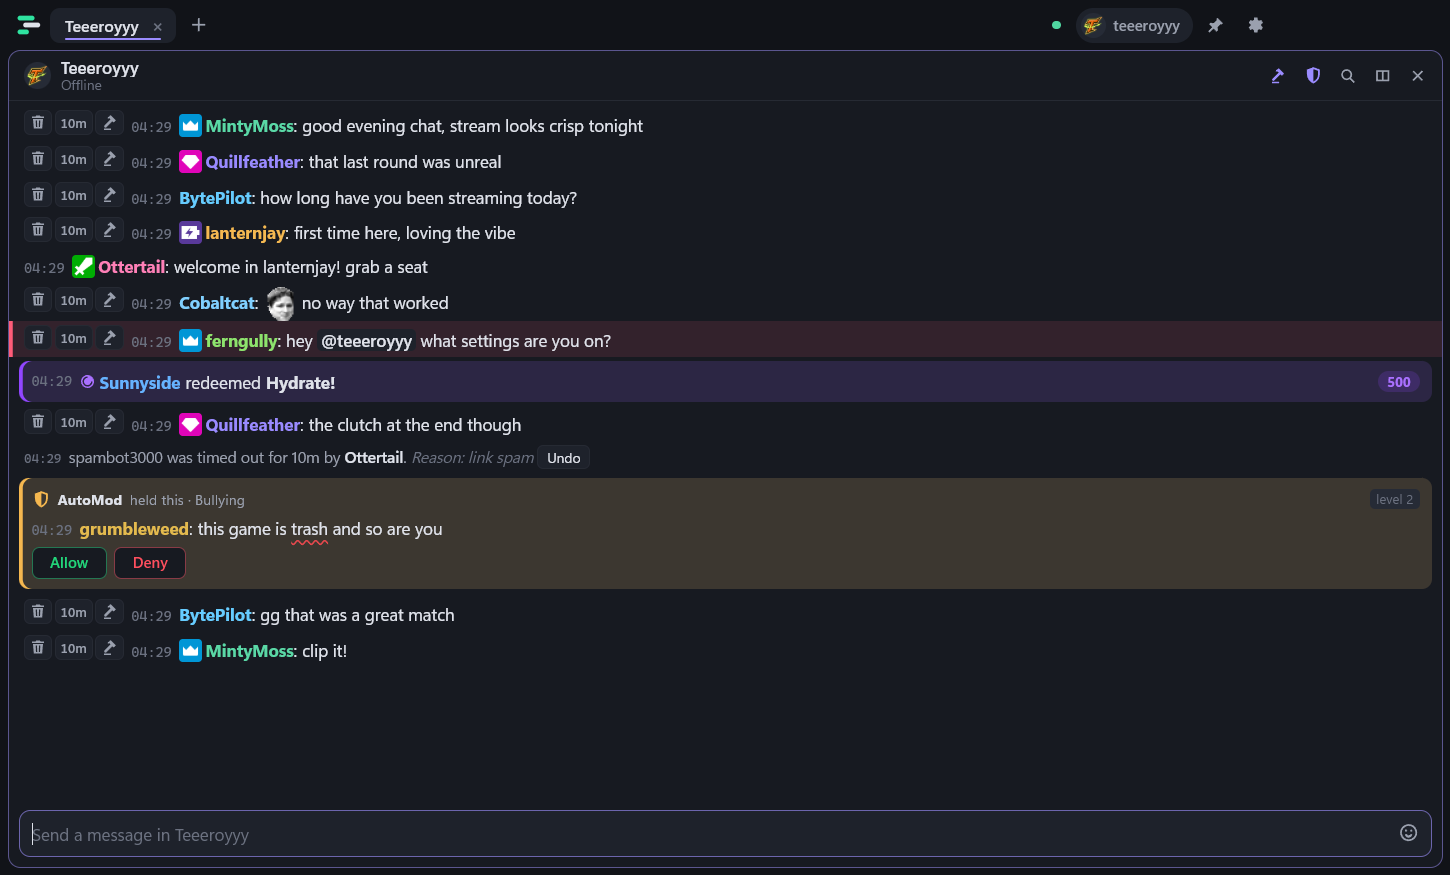
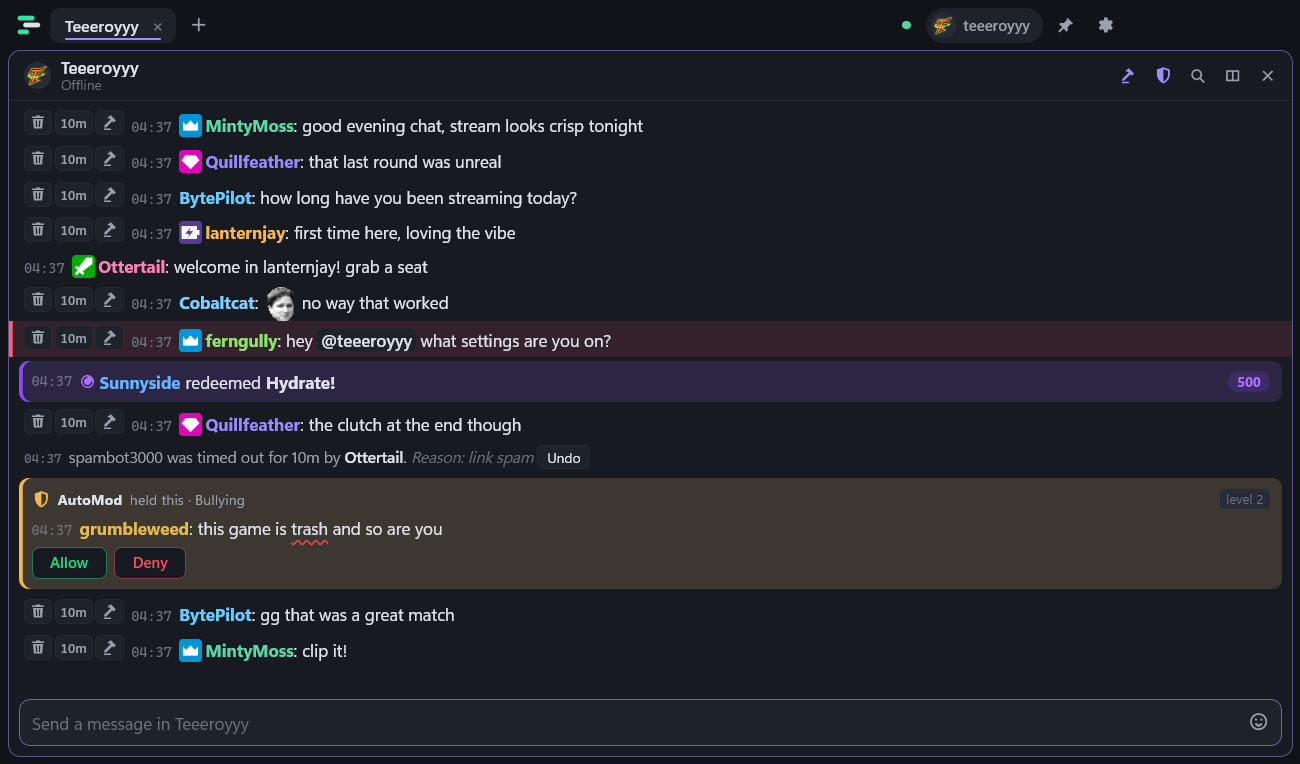
Update website

diff --git a/docs/style.css b/docs/style.css
@@ -33,7 +33,7 @@ body {
   -webkit-font-smoothing: antialiased;
   overflow-x: hidden;
 }
-img { max-width: 100%; display: block; }
+img { max-width: 100%; height: auto; display: block; }
 a { color: var(--mint); text-decoration: none; }
 a:hover { color: var(--mint-2); }
 h1, h2, h3 { font-family: var(--display); line-height: 1.05; margin: 0; letter-spacing: -.02em; }
@@ -57,14 +57,14 @@ main > section { max-width: var(--max); margin: 0 auto; padding: 0 24px; }
 .nav nav a.nav-cta:hover { background: var(--mint-2); }
 
 /* hero */
-.hero { display: grid; grid-template-columns: minmax(0, 5fr) minmax(0, 7fr); gap: 56px; align-items: center; padding-top: 72px !important; padding-bottom: 96px !important; }
+.hero { display: grid; grid-template-columns: 1fr; gap: 64px; justify-items: center; text-align: center; padding-top: 72px !important; padding-bottom: 96px !important; }
 .eyebrow { display: inline-flex; align-items: center; gap: 9px; margin: 0 0 22px; padding: 6px 13px 6px 11px; border: 1px solid var(--line); border-radius: 999px; color: var(--text-2); font-size: 13.5px; background: rgba(255, 255, 255, .02); }
 .pulse { width: 8px; height: 8px; border-radius: 50%; background: var(--mint); box-shadow: 0 0 0 0 rgba(79, 214, 160, .6); animation: pulse 2.2s infinite; }
 @keyframes pulse { 70% { box-shadow: 0 0 0 9px rgba(79, 214, 160, 0); } 100% { box-shadow: 0 0 0 0 rgba(79, 214, 160, 0); } }
 h1 { font-size: clamp(46px, 6.4vw, 84px); font-weight: 800; }
 h1 em { font-style: normal; background: linear-gradient(95deg, var(--mint) 10%, var(--mint-2) 60%, #ffffff); -webkit-background-clip: text; background-clip: text; color: transparent; }
-.lede { font-size: 18.5px; color: var(--text-2); max-width: 470px; margin: 24px 0 34px; }
-.hero-actions { display: flex; align-items: center; gap: 14px; flex-wrap: wrap; }
+.lede { font-size: 18.5px; color: var(--text-2); max-width: 560px; margin: 24px auto 34px; }
+.hero-actions { display: flex; align-items: center; justify-content: center; gap: 14px; flex-wrap: wrap; }
 .version-pill { font: 13px var(--mono); color: var(--text-3); }
 
 .btn { display: inline-flex; align-items: center; gap: 10px; padding: 13px 22px; border-radius: 12px; font-weight: 600; font-size: 15.5px; transition: transform .15s, box-shadow .15s, background .15s; }
@@ -73,10 +73,9 @@ h1 em { font-style: normal; background: linear-gradient(95deg, var(--mint) 10%, 
 .btn.primary:hover { color: #06251a; transform: translateY(-1px); box-shadow: 0 14px 36px -8px rgba(79, 214, 160, .7), inset 0 1px 0 rgba(255, 255, 255, .35); }
 .btn.big { padding: 15px 26px; font-size: 16.5px; }
 
-.hero-shot { margin: 0; position: relative; }
-.hero-shot::before { content: ""; position: absolute; inset: 8% -4% -6% 6%; background: radial-gradient(closest-side, rgba(79, 214, 160, .28), transparent); filter: blur(30px); z-index: -1; }
-.window { border-radius: 14px; overflow: hidden; border: 1px solid rgba(255, 255, 255, .09); background: #111318; box-shadow: 0 40px 80px -20px rgba(0, 0, 0, .7); transform: perspective(1600px) rotateY(-7deg) rotateX(2deg); transition: transform .5s ease; }
-.hero-shot:hover .window { transform: perspective(1600px) rotateY(-2deg) rotateX(0deg); }
+.hero-shot { margin: 0; position: relative; width: 100%; max-width: 1040px; }
+.hero-shot::before { content: ""; position: absolute; inset: 6% 4% -4% 4%; background: radial-gradient(closest-side, rgba(79, 214, 160, .28), transparent); filter: blur(30px); z-index: -1; }
+.window { border-radius: 14px; overflow: hidden; border: 1px solid rgba(255, 255, 255, .09); background: #111318; box-shadow: 0 40px 80px -20px rgba(0, 0, 0, .7); }
 .window-bar { display: flex; gap: 7px; padding: 10px 13px; background: #0d0f14; border-bottom: 1px solid rgba(255, 255, 255, .05); }
 .window-bar i { width: 10px; height: 10px; border-radius: 50%; background: #2a303c; }
 .hero-shot figcaption { margin-top: 18px; color: var(--text-3); font-size: 13.5px; text-align: center; }
@@ -149,8 +148,7 @@ h2 { font-size: clamp(32px, 4vw, 48px); font-weight: 700; max-width: 720px; }
 
 /* responsive */
 @media (max-width: 960px) {
-  .hero { grid-template-columns: 1fr; gap: 48px; padding-top: 48px !important; }
-  .window { transform: none; }
+  .hero { gap: 48px; padding-top: 48px !important; }
   .feature-grid { grid-template-columns: 1fr 1fr; }
   .dl-card { grid-template-columns: auto 1fr; }
   .steps { grid-column: 1 / -1; }

diff --git a/docs/index.html b/docs/index.html
@@ -31,7 +31,7 @@
   <section class="hero">
     <div class="hero-copy">
       <p class="eyebrow"><span class="pulse"></span> Twitch chat client for Windows</p>
-      <h1>Keep up with<br><em>any chat.</em></h1>
+      <h1>Keep up with <em>any chat.</em></h1>
       <p class="lede">Chattler is a fast, modern Twitch chat client. It stays smooth in chats with thousands of people, and gives moderators one-click tools that keep up with the scroll.</p>
       <div class="hero-actions">
         <a class="btn primary" href="#download" data-dl>
@@ -44,7 +44,7 @@
     <figure class="hero-shot">
       <div class="window">
         <div class="window-bar"><i></i><i></i><i></i></div>
-        <img src="assets/screenshot.png" alt="Chattler showing a busy chat with a channel point redemption, a timeout naming the moderator, and an AutoMod held message with Allow and Deny buttons." width="1450" height="875">
+        <img src="assets/screenshot.png" alt="Chattler showing a busy chat with a channel point redemption, a timeout naming the moderator, and an AutoMod held message with Allow and Deny buttons." width="1300" height="764">
       </div>
       <figcaption>Redemptions, who-timed-out-who, and AutoMod — right in the chat.</figcaption>
     </figure>
